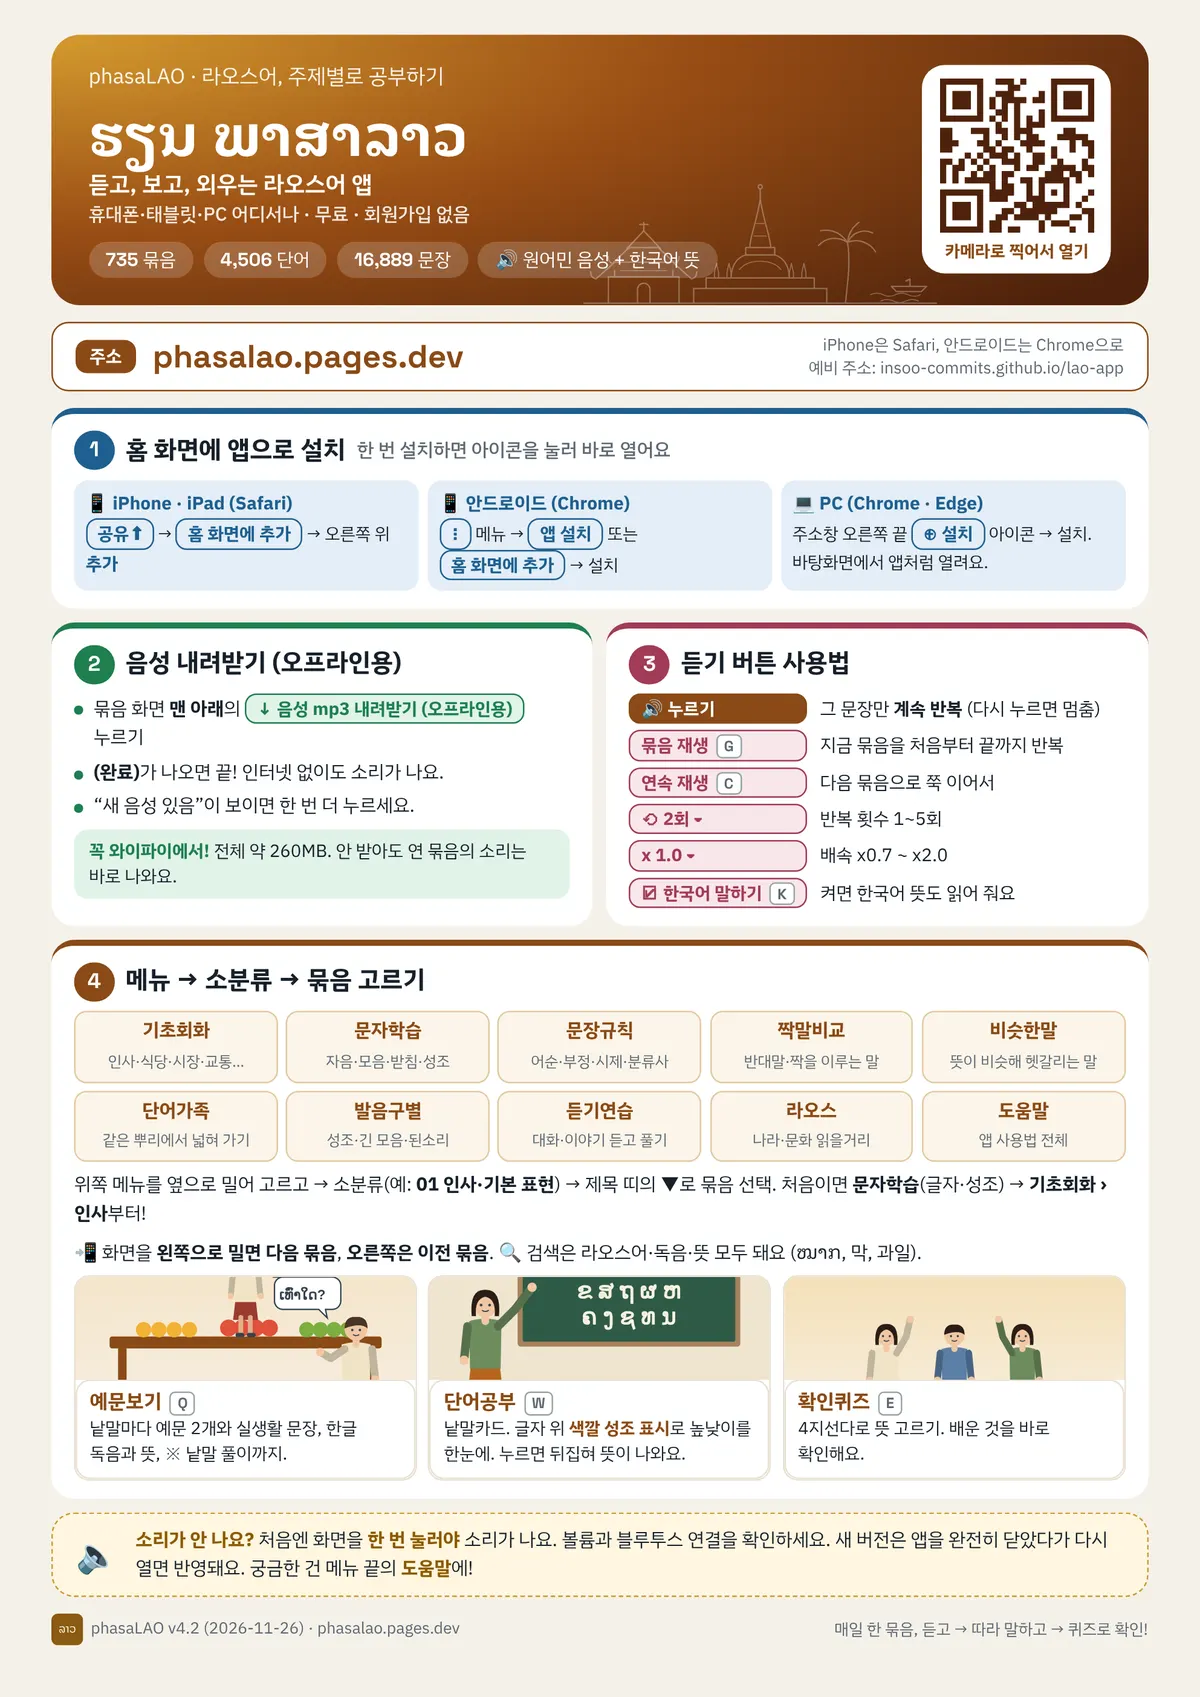
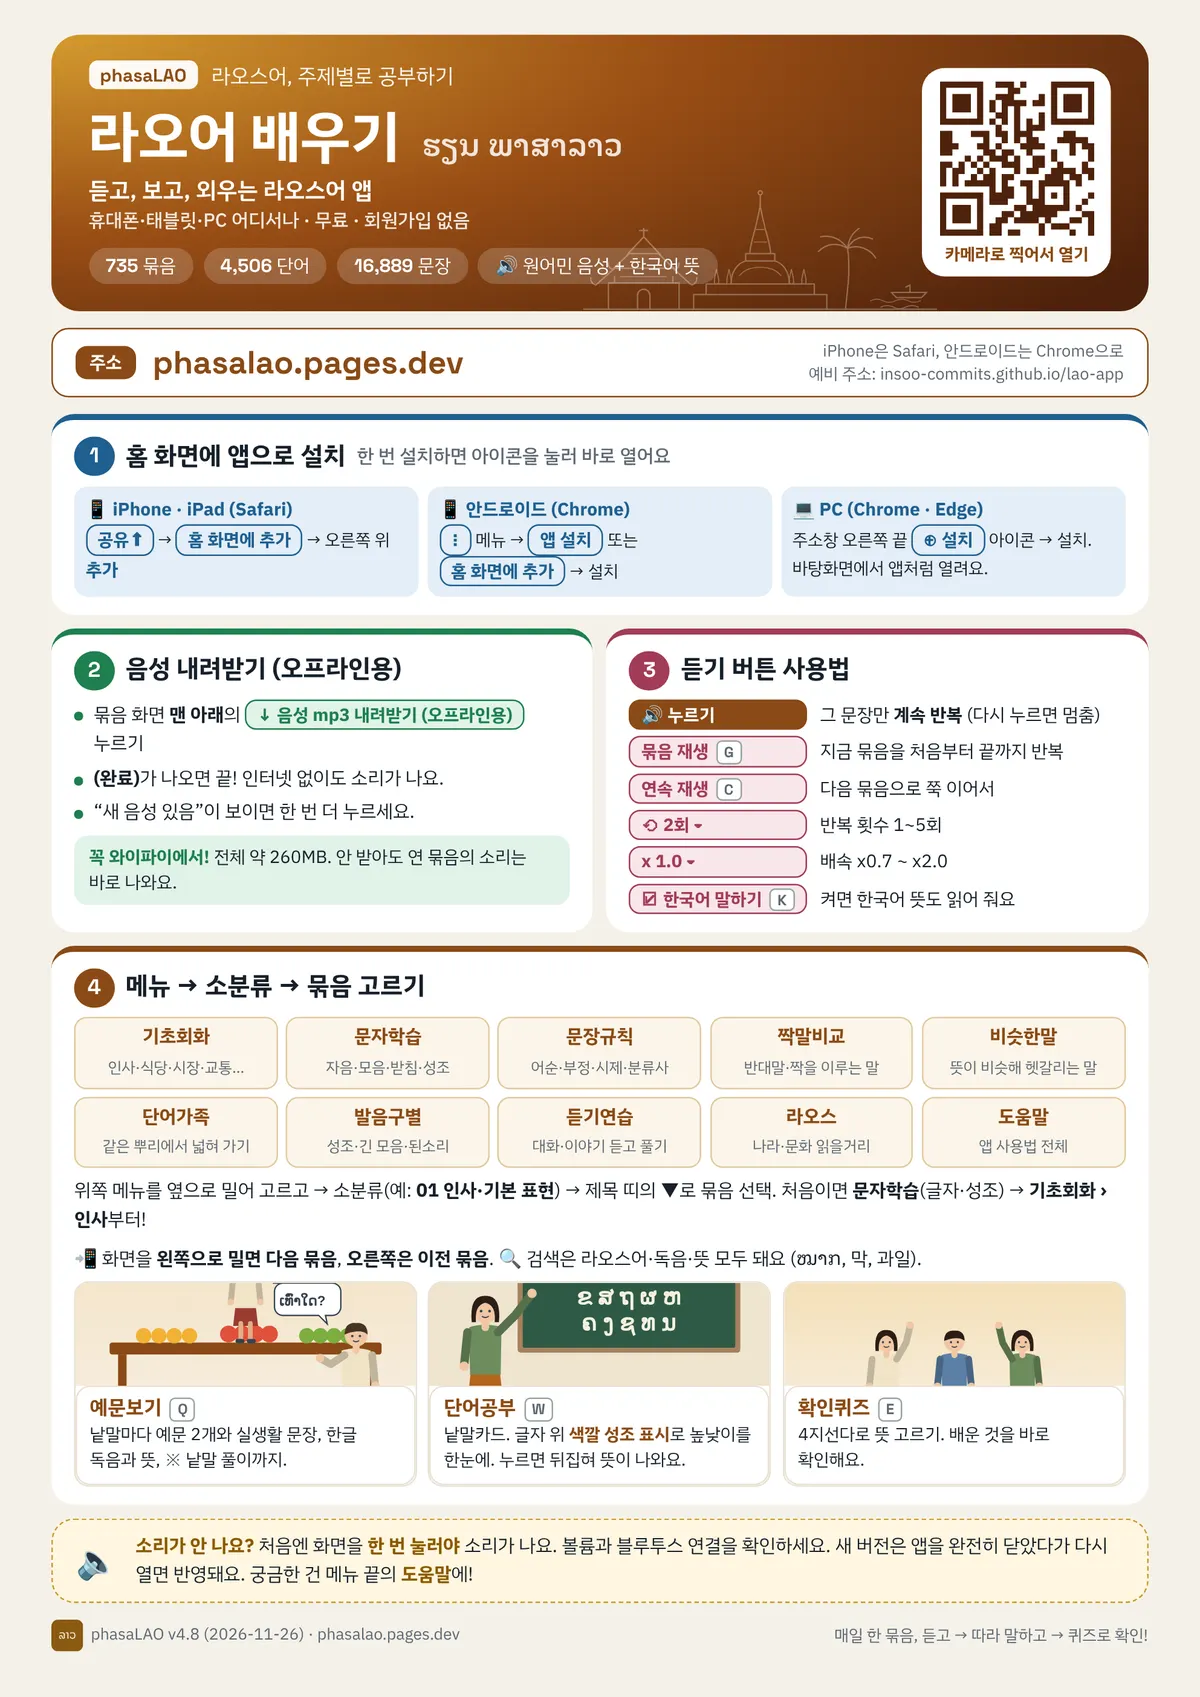
v4.8: 머리 = phasaLAO 알약 + 큰 제목 라오어 배우기 (KoJey·phasaKAO처럼), 포스터도
Claude-Session: https://claude.ai/code/session_01FbeTC7KmzrRW3MQGhQkCzx

Changed region(s): [[0.0308, 0.0312, 0.9558, 0.9682]]

diff --git a/index.html b/index.html
@@ -781,6 +781,12 @@ body{background:var(--bg)}
 .info.hdeco .hbb .shots{margin:4px 0 8px}.info.hdeco .hbb .shots figure{background:none;padding:0}
 :root[data-theme="dark"] .info.hdeco .hbox[data-c="0"]{--hbc:#6FA3EE}:root[data-theme="dark"] .info.hdeco .hbox[data-c="1"]{--hbc:#5CC28A}:root[data-theme="dark"] .info.hdeco .hbox[data-c="2"]{--hbc:#E888A6}:root[data-theme="dark"] .info.hdeco .hbox[data-c="3"]{--hbc:#E6B455}
 @media (prefers-color-scheme:dark){:root:not([data-theme="light"]) .info.hdeco .hbox[data-c="0"]{--hbc:#6FA3EE}:root:not([data-theme="light"]) .info.hdeco .hbox[data-c="1"]{--hbc:#5CC28A}:root:not([data-theme="light"]) .info.hdeco .hbox[data-c="2"]{--hbc:#E888A6}:root:not([data-theme="light"]) .info.hdeco .hbox[data-c="3"]{--hbc:#E6B455}}
+
+/* v4.8 RYU: KoJey·phasaKAO처럼 첫 줄 = 앱 이름 알약 + 설명, 큰 제목 = 라오어 배우기 (라오 글자는 옆에 작게) */
+#app header .eyebrow .logo{display:inline-block;font:700 12px/1 var(--display);letter-spacing:.6px;padding:3px 8px 2px;border-radius:6px;background:#fff;color:var(--accent);margin-right:6px;vertical-align:1px;opacity:1}
+#app header h1.lotitle .ko1{color:#FFF6E4;font-family:"IBM Plex Sans KR",var(--display);font-weight:700;letter-spacing:-.01em}
+#app header h1.lotitle .lo2{font-size:.5em;font-weight:600;opacity:.85;margin-left:.25em;vertical-align:.15em}
+@media (max-width:600px){#app header h1.lotitle .lo2{display:none}}
 </style>
 
 </head><body>
@@ -788,8 +794,8 @@ body{background:var(--bg)}
 <div class="wrap" id="app" data-g="P5">
   <header><svg class="hart" viewBox="0 0 340 124" preserveAspectRatio="xMaxYMax meet" fill="none" stroke="currentColor" stroke-width="1.3" stroke-linecap="round" stroke-linejoin="round" aria-hidden="true"><path d="M0 122h340"/><path d="M24 122V97h68v25M52 122v-13a6 6 0 0 1 12 0v13M30 97v-6M86 97v-6"/><path d="M12 99l18-16h56l18 16M12 99q-5-1-5-7M104 99q5-1 5-7"/><path d="M28 84l16-15h28l16 15M28 84q-4-1-4-6M88 84q4-1 4-6"/><path d="M42 70l16-17 16 17M58 53v-8M54 47h8"/><path d="M36 91h44" stroke-width=".9"/><path d="M106 122v-14h128v14M118 108v-10h104v10"/><g stroke-width="1"><path d="M126 98v-5l2-9 2 9v5M138 98v-5l2-9 2 9v5M198 98v-5l2-9 2 9v5M210 98v-5l2-9 2 9v5"/></g><path d="M142 98c0-13 7-20 14-22h28c7 2 14 9 14 22"/><path d="M150 90c4-5 10-8 20-8s16 3 20 8" stroke-width=".9"/><path d="M156 76v-7h28v7M160 69c0-10 6-22 10-46 4 24 10 36 10 46"/><path d="M164 58h12M166 46h8" stroke-width=".9"/><path d="M170 23v-10"/><circle cx="170" cy="11" r="2"/><path d="M252 122c2-20 5-38 2-58M254 64c-9-6-20-5-28 3M254 64c-7-10-17-13-26-11M254 64c5-10 15-13 24-9M254 64c10-4 21 0 27 9M254 64c1-9 5-15 11-19"/><path d="M276 114q6-3 12 0t12 0t12 0t12 0M286 120q6-3 12 0t12 0t12 0" stroke-width=".9"/><path d="M296 106h34l-5 5h-24zM314 106v-7l-4 2"/></svg>
     <div class="brand">
-      <span class="eyebrow">라오스어, 주제별로 공부하기</span>
-      <h1 class="lotitle"><span class="lo">ຮຽນ ພາສາລາວ</span></h1>
+      <span class="eyebrow"><span class="logo">phasaLAO</span> 라오스어, 주제별로 공부하기</span>
+      <h1 class="lotitle"><span class="ko1">라오어 배우기</span> <span class="lo lo2">ຮຽນ ພາສາລາວ</span></h1>
     </div>
     <div class="stats" id="stats"><span><b>656</b>묶음</span><span><b>3,995</b>단어</span><span><b>15,592</b>문장</span></div>
   </header>
@@ -819,10 +825,10 @@ body{background:var(--bg)}
     <div class="body" id="view"></div>
   </section>
   <div class="player" id="player" hidden><span class="t" id="pt"></span><button id="ppause">❙❙ 일시정지</button><button id="pstop" class="pcancel">■ 취소</button></div>
-  <div class="fbox"><p class="note foot"><svg class="fi" viewBox="0 0 24 24" fill="none" stroke="currentColor" stroke-width="2" stroke-linecap="round" stroke-linejoin="round" aria-hidden="true"><path d="M11 5 6 9H3v6h3l5 4V5z" fill="currentColor"/><path d="M15.5 8.5a5 5 0 0 1 0 7M18.5 5.5a9 9 0 0 1 0 13"/></svg> 듣기 · <svg class="fi" viewBox="0 0 24 24" fill="none" stroke="currentColor" stroke-width="2" stroke-linecap="round" stroke-linejoin="round" aria-hidden="true"><path d="m17 2 4 4-4 4"/><path d="M3 11v-1a4 4 0 0 1 4-4h14"/><path d="m7 22-4-4 4-4"/><path d="M21 13v1a4 4 0 0 1-4 4H3"/></svg> 반복 (1–5회) 정한 횟수만큼 반복합니다. 학습 기록은 이 기기에만 저장됩니다.</p><p class="voice" id="voiceNote"></p><div class="ver">2026-11-26 v4.7 · Claude AI로 제작 · <span class="cl" aria-hidden="true">©</span> Copyleft</div></div>
+  <div class="fbox"><p class="note foot"><svg class="fi" viewBox="0 0 24 24" fill="none" stroke="currentColor" stroke-width="2" stroke-linecap="round" stroke-linejoin="round" aria-hidden="true"><path d="M11 5 6 9H3v6h3l5 4V5z" fill="currentColor"/><path d="M15.5 8.5a5 5 0 0 1 0 7M18.5 5.5a9 9 0 0 1 0 13"/></svg> 듣기 · <svg class="fi" viewBox="0 0 24 24" fill="none" stroke="currentColor" stroke-width="2" stroke-linecap="round" stroke-linejoin="round" aria-hidden="true"><path d="m17 2 4 4-4 4"/><path d="M3 11v-1a4 4 0 0 1 4-4h14"/><path d="m7 22-4-4 4-4"/><path d="M21 13v1a4 4 0 0 1-4 4H3"/></svg> 반복 (1–5회) 정한 횟수만큼 반복합니다. 학습 기록은 이 기기에만 저장됩니다.</p><p class="voice" id="voiceNote"></p><div class="ver">2026-11-26 v4.8 · Claude AI로 제작 · <span class="cl" aria-hidden="true">©</span> Copyleft</div></div>
 </div>
 
 
 
-<script>/* load data only after the first screen is painted (iPhone waited for 2 MB of data before showing anything) */(function(){var AV="app.js?v=4.7";/* v14.13: show the last screen at once from the saved snapshot; app.js re-renders the same thing when it arrives */try{var sn=JSON.parse(localStorage.getItem("lao-snap")||"null"),se=JSON.parse(localStorage.getItem("lao-sel")||"null"),ap=document.getElementById("app");if(sn&&se&&sn.v===AV&&sn.h&&sn.sig===[se.part,se.sub,(se.bun||{})[se.sub]||"",se.mode||"dlg",innerWidth].join("|")){sn.h.forEach(function(x){document.getElementById(x[0]).innerHTML=x[1]});ap.className=sn.c;ap.setAttribute("data-g",sn.g);document.documentElement.classList.remove("pre");[["groups",'[aria-pressed="true"]'],["subs",'[aria-selected="true"]']].forEach(function(q){var c=document.getElementById(q[0]),e=c&&c.querySelector(q[1]);if(!e)return;var l=e.offsetLeft-(e.offsetParent===c?0:c.offsetLeft),r=l+e.offsetWidth;if(l-28<c.scrollLeft)c.scrollLeft=Math.max(0,l-28);else if(r+28>c.scrollLeft+c.clientWidth)c.scrollLeft=r+28-c.clientWidth})}}catch(e){}function go(){var a=document.createElement("script");a.src="audio/index.js";a.onload=a.onerror=function(){var s=document.createElement("script");s.src=AV;document.body.appendChild(s)};document.body.appendChild(a)}function later(){requestAnimationFrame(function(){setTimeout(go,60)})}if(document.readyState==="loading")document.addEventListener("DOMContentLoaded",later);else later()})()</script>
+<script>/* load data only after the first screen is painted (iPhone waited for 2 MB of data before showing anything) */(function(){var AV="app.js?v=4.8";/* v14.13: show the last screen at once from the saved snapshot; app.js re-renders the same thing when it arrives */try{var sn=JSON.parse(localStorage.getItem("lao-snap")||"null"),se=JSON.parse(localStorage.getItem("lao-sel")||"null"),ap=document.getElementById("app");if(sn&&se&&sn.v===AV&&sn.h&&sn.sig===[se.part,se.sub,(se.bun||{})[se.sub]||"",se.mode||"dlg",innerWidth].join("|")){sn.h.forEach(function(x){document.getElementById(x[0]).innerHTML=x[1]});ap.className=sn.c;ap.setAttribute("data-g",sn.g);document.documentElement.classList.remove("pre");[["groups",'[aria-pressed="true"]'],["subs",'[aria-selected="true"]']].forEach(function(q){var c=document.getElementById(q[0]),e=c&&c.querySelector(q[1]);if(!e)return;var l=e.offsetLeft-(e.offsetParent===c?0:c.offsetLeft),r=l+e.offsetWidth;if(l-28<c.scrollLeft)c.scrollLeft=Math.max(0,l-28);else if(r+28>c.scrollLeft+c.clientWidth)c.scrollLeft=r+28-c.clientWidth})}}catch(e){}function go(){var a=document.createElement("script");a.src="audio/index.js";a.onload=a.onerror=function(){var s=document.createElement("script");s.src=AV;document.body.appendChild(s)};document.body.appendChild(a)}function later(){requestAnimationFrame(function(){setTimeout(go,60)})}if(document.readyState==="loading")document.addEventListener("DOMContentLoaded",later);else later()})()</script>
 </body></html>

diff --git a/sw.js b/sw.js
@@ -1,4 +1,4 @@
-const SHELL="lao-shell-v4.7",AUD="lao-audio-v2";
+const SHELL="lao-shell-v4.8",AUD="lao-audio-v2";
 const JS="lao-js";/* versioned app.js?v=… lives here, kept across versions, only newest entry kept */
 const FILES=["./","index.html","manifest.webmanifest","audio/index.js","icon-180.png","icon-192.png","icon-512.png","header.svg","header-day.svg","img/ele/main.webp","img/ele/happy.webp","img/ele/think.webp","img/ele/try.webp"];
 /* Audio clips live in IndexedDB ("lao-audio" / store "c", key = clip name, value = ArrayBuffer).
